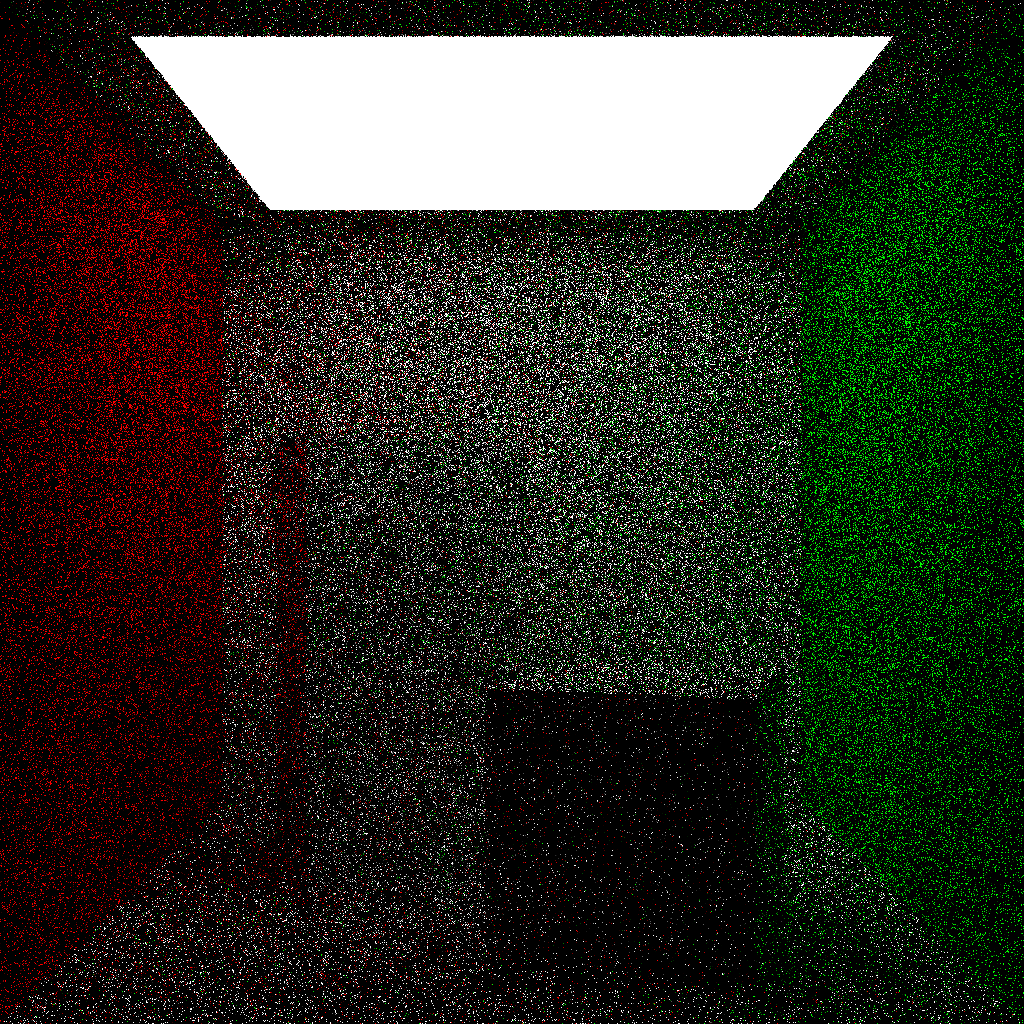
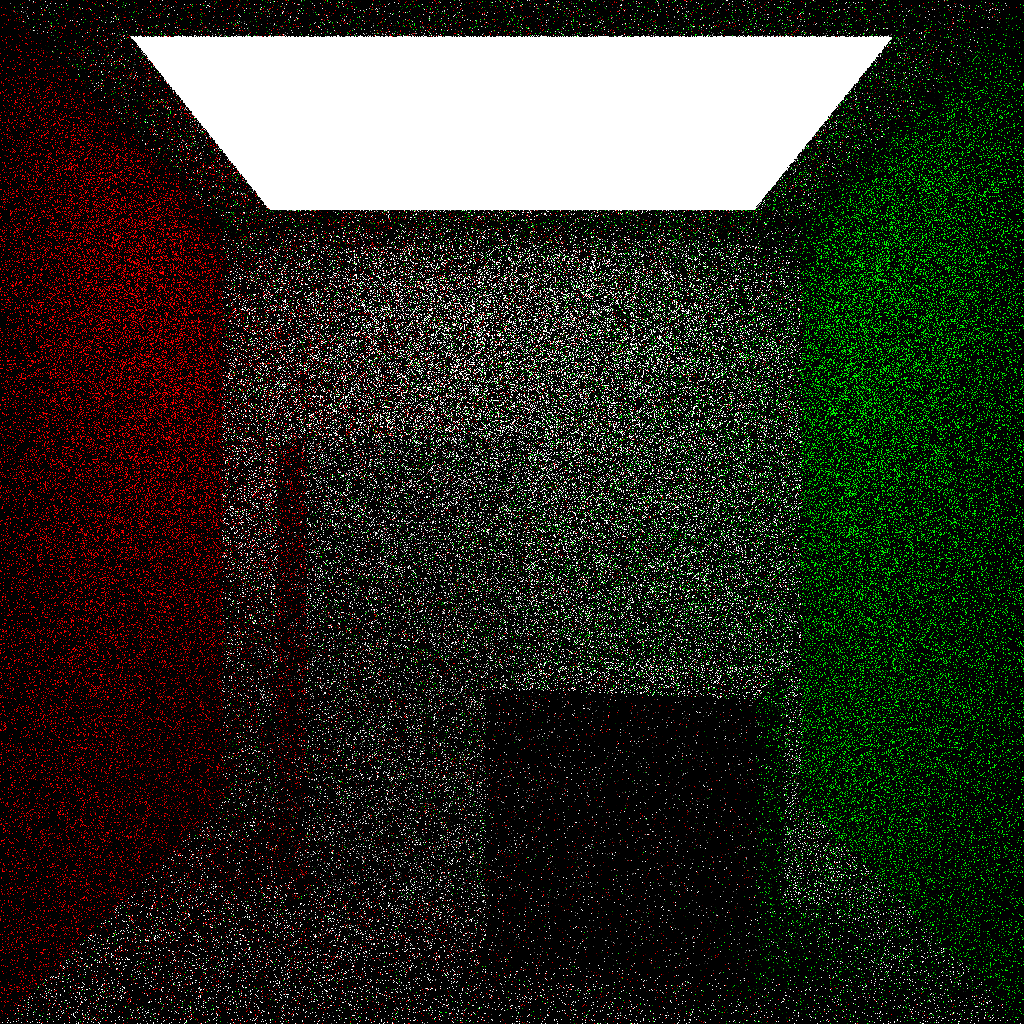
Reseed the random number generator for each quality pass

Changed region(s): [[0.0, 0.0, 1.0, 1.0], [0.5625, 0.8125, 0.5938, 0.8438]]

diff --git a/grayt/tracer.go b/grayt/tracer.go
@@ -6,8 +6,6 @@ import (
 	"sync/atomic"
 )
 
-var rng = rand.New(rand.NewSource(-1))
-
 func traceImage(pxWide, pxHigh int, scene Scene, quality int, completed *uint64) image.Image {
 
 	cam := newCamera(scene.Camera)
@@ -17,14 +15,14 @@ func traceImage(pxWide, pxHigh int, scene Scene, quality int, completed *uint64)
 	// Trace the image.
 	pxPitch := 2.0 / float64(pxWide)
 	for i := 0; i < quality; i++ {
+		rng := rand.New(rand.NewSource(int64(i)))
 		for pxY := 0; pxY < pxHigh; pxY++ {
-			rng.Seed(int64(i*pxHigh + pxY))
 			for pxX := 0; pxX < pxWide; pxX++ {
 				x := (float64(pxX-pxWide/2) + rng.Float64()) * pxPitch
 				y := (float64(pxY-pxHigh/2) + rng.Float64()) * pxPitch * -1.0
-				r := cam.makeRay(x, y)
+				r := cam.makeRay(x, y, rng)
 				r.dir = r.dir.Unit()
-				accum.add(pxX, pxY, tracePath(accel, r))
+				accum.add(pxX, pxY, tracePath(accel, r, rng))
 				atomic.AddUint64(completed, 1)
 			}
 		}
@@ -33,7 +31,7 @@ func traceImage(pxWide, pxHigh int, scene Scene, quality int, completed *uint64)
 	return accum.toImage(1.0)
 }
 
-func tracePath(accel accelerationStructure, r ray) Colour {
+func tracePath(accel accelerationStructure, r ray, rng *rand.Rand) Colour {
 
 	intersection, material, hit := accel.closestHit(r)
 	if !hit {
@@ -70,7 +68,7 @@ func tracePath(accel accelerationStructure, r ray) Colour {
 	// Apply the BRDF (bidirectional reflection distribution function).
 	brdf := rnd.dot(intersection.unitNormal)
 
-	return tracePath(accel, ray{start: hitLoc, dir: rnd}).
+	return tracePath(accel, ray{start: hitLoc, dir: rnd}, rng).
 		scale(brdf / (1 - pEmit)).
 		mul(material.colour)
 }

diff --git a/grayt/camera.go b/grayt/camera.go
@@ -1,6 +1,9 @@
 package grayt
 
-import "math"
+import (
+	"math"
+	"math/rand"
+)
 
 type camera struct {
 	screen, eye struct {
@@ -34,7 +37,7 @@ func newCamera(conf CameraBlueprint) camera {
 	return cam
 }
 
-func (c *camera) makeRay(x, y float64) ray {
+func (c *camera) makeRay(x, y float64, rng *rand.Rand) ray {
 	start := c.eye.loc.
 		Add(c.eye.x.Scale(2*rng.Float64() - 1.0)).
 		Add(c.eye.y.Scale(2*rng.Float64() - 1.0))
